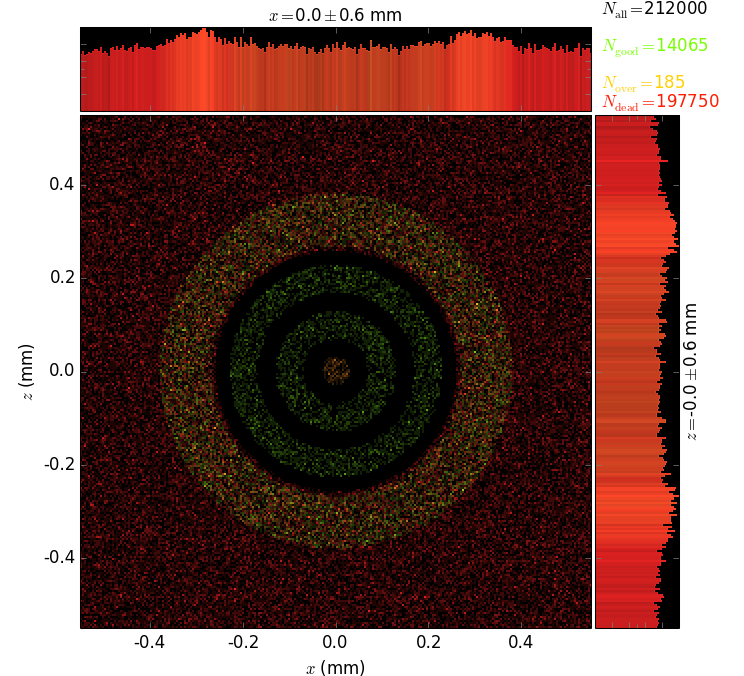
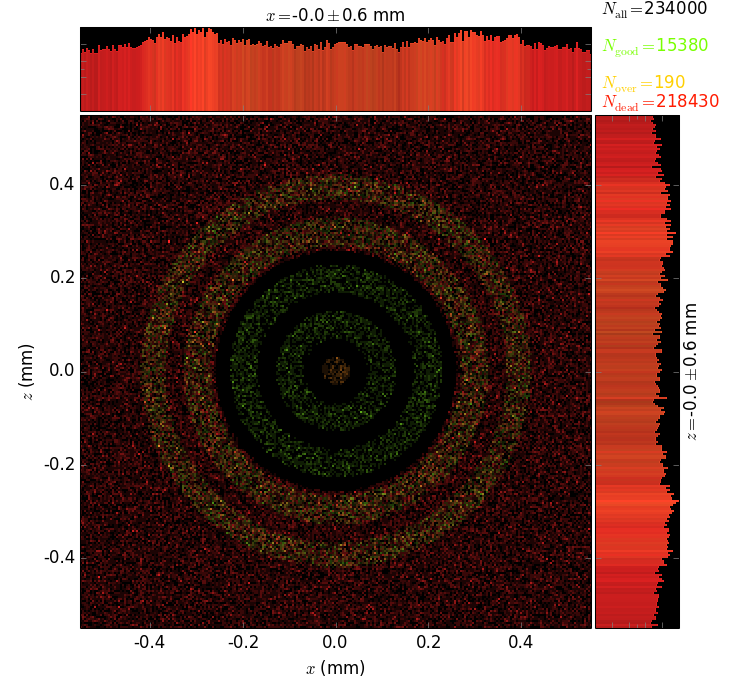
One more reflection, seems to be max. possible for this length

diff --git a/simplfiedMonoCapillary.py b/simplfiedMonoCapillary.py
@@ -34,7 +34,7 @@ wall = 0.02
 plot2D_yLim = [-0.05, 0.05]
 plot_main_lim = 0.55 # min 2*r0 for capillary entrance imaging
 layers = 10 # number of hexagonal layers
-nRefl = 2 # number of reflections
+nRefl = 3 # number of reflections
 nReflDisp = 12 # unused
 xzPrimeMax = 3.
 
